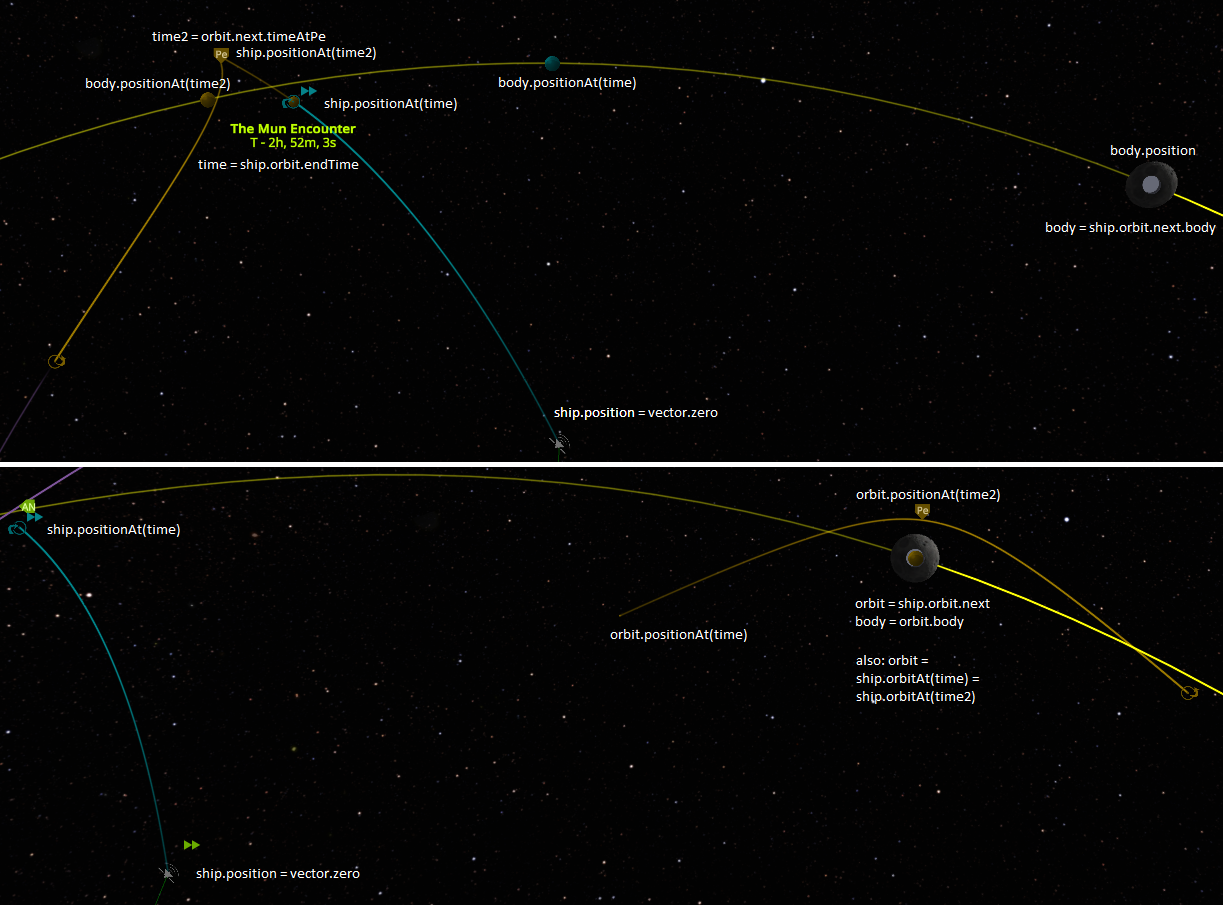
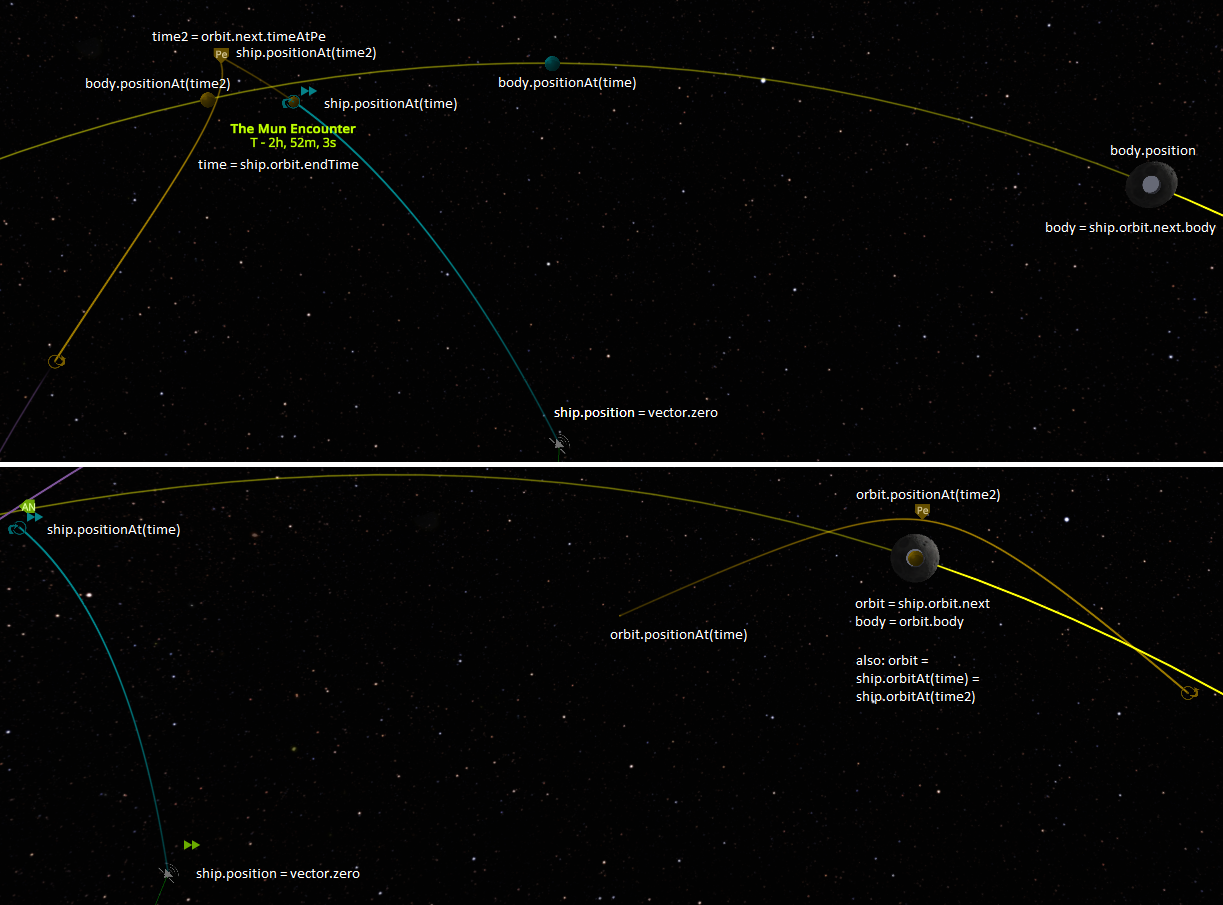
documentation for node, orbitAt, positionAt and velocityAt

diff --git a/RedOnion.KSP/API/Node.cs b/RedOnion.KSP/API/Node.cs
@@ -37,10 +37,10 @@ namespace RedOnion.KSP.API
 		[Description("Ship the node belongs to.")]
 		public Ship ship { get; private set; }
 
-		[Description("Create new maneuver node for active ship, specifying time.")]
+		[Description("Create new maneuver node for active ship, specifying time and optionally prograde, normal and radial delta-v (unspecified are zero).")]
 		public Node(double time, double prograde = 0.0, double normal = 0.0, double radial = 0.0)
 			: this(Ship.Active, time, prograde, normal, radial) { }
-		[Description("Create new maneuver node for active ship.")]
+		[Description("Create new maneuver node for active ship, specifying time and burn vector. See [`deltav` property](#deltav) for more details.")]
 		public Node(double time, Vector deltav)
 			: this(Ship.Active, time, deltav) { }
 
@@ -69,7 +69,16 @@ namespace RedOnion.KSP.API
 		[Description("Seconds until the maneuver.")]
 		public double eta => native.UT - Time.now;
 
-		[Description("Direction and amount of velocity change needed.")]
+		[Description("Direction and amount of velocity change needed (aka burn-vector)."
+			+ " Note that the vector is relative to the SOI where the node is (not where the ship currently is)."
+			+ " That means that the vector will be relative to the current position of the Mun"
+			+ " not relative to future position of the Mun (when the node is for example "
+			+ " at the periapsis = closest enounter with the Mun"
+			+ " and is retrograde with the right amount for circularization,"
+			+ " but the ship is currently still in Kerbin's SOI)."
+			+ " Therefore [`ship.orbitAt(time).velocityAt(time)`](Ship.md#orbitAt)"
+			+ " shall be used rather than [`ship.velocityAt(time)`](Ship.md#velocityAt)"
+			+ " when planning nodes in different SOI (both work the same when in same SOI).")]
 		public Vector deltav
 		{
 			get => new Vector(native.GetBurnVector(ship.orbit));

diff --git a/RedOnion.KSP/API/Ship.cs b/RedOnion.KSP/API/Ship.cs
@@ -547,7 +547,7 @@ namespace RedOnion.KSP.API
 
 		#region Tools
 
-		[WorkInProgress, Description("Get orbit info relevant for given time.")]
+		[WorkInProgress, Description("Get orbit info relevant for given time. See [orbit.png](orbit.png).")]
 		public OrbitInfo orbitAt(double time)
 		{
 			var orbit = this.orbit;
@@ -560,7 +560,11 @@ namespace RedOnion.KSP.API
 			}
 			return orbit;
 		}
-		[WorkInProgress, Description("Predicted position at specified time.")]
+		[WorkInProgress, Description(
+			"Predicted position at specified time."
+			+ " Includes the movement of moons (e.g. Mun) when ship is currently orbiting the planet (e.g. Kerbin)."
+			+ " Use `orbitAt(time).positionAt(time)` if that is not desired."
+			+ " See [orbit.png](orbit.png).")]
 		public Vector positionAt(double time)
 		{
 			var orbit = native.orbit.GetOrbitAt(time);
@@ -575,7 +579,11 @@ namespace RedOnion.KSP.API
 			}
 			return new Vector(pos - FlightGlobals.ActiveVessel.CoMD);
 		}
-		[WorkInProgress, Description("Predicted velocity at specified time.")]
+		[WorkInProgress, Description(
+			"Predicted velocity at specified time."
+			+ " Includes the movement of moons (e.g. Mun) when ship is currently orbiting the planet (e.g. Kerbin)."
+			+ " Use `orbitAt(time).velocityAt(time)` if that is not desired."
+			+ " See [orbit.png](orbit.png).")]
 		public Vector velocityAt(double time)
 		{
 			var orbit = native.orbit.GetOrbitAt(time);

diff --git a/RedOnion.KSP/API/VectorDraw.cs b/RedOnion.KSP/API/VectorDraw.cs
@@ -14,22 +14,21 @@ namespace RedOnion.KSP.API
 		{
 			[Description("Reference for coordinate system (origin at zero if null).")]
 			public ISpaceObject reference { get; set; }
+
 			[Description("Starting point of the vector (relative to reference).")]
 			public Vector origin { get; set; }
 			[Description("Direction of the vector (from starting point).")]
 			public Vector direction { get; set; }
 
 			[Description("Alias to `origin`.")]
-			public Vector from { get; set; }
-			[Description("End point (`origin + direction`).")]
-			public Vector to { get => origin + direction; set => direction = value - origin; }
-
-			[Description("Alias to `origin`.")]
-			public Vector start { get => origin; set => origin = value; }
-			[Description("Alias to `origin`.")]
 			public Vector position { get => origin; set => origin = value; }
 			[Description("Alias to `direction`.")]
 			public Vector vector { get => direction; set => direction = value; }
+
+			[Description("Alias to `origin`.")]
+			public Vector from { get; set; }
+			[Description("End point (`origin + direction`).")]
+			public Vector to { get => origin + direction; set => direction = value - origin; }
 
 			[Description("Color of the arrow.")]
 			public Color color { get; set; } = Color.white;

diff --git a/RedOnion.KSP/API/OrbitInfo.cs b/RedOnion.KSP/API/OrbitInfo.cs
@@ -111,7 +111,11 @@ namespace RedOnion.KSP.API
 		[Description("Argument of periapsis. Angle from ascending node to periapsis.")]
 		public double aop => native.argumentOfPeriapsis;
 
-		[WorkInProgress, Description("Predicted position at specified time.")]
+		[WorkInProgress, Description(
+			"Predicted position at specified time."
+			+ " Does not includes the movement of celestial bodies"
+			+ " (like Mun when ship is still in Kerbin's SOI)."
+			+ " See [orbit.png](orbit.png).")]
 		public Vector positionAt(double time) => new Vector(native.getPositionAtUT(time) - FlightGlobals.ActiveVessel.CoMD);
 		[WorkInProgress, Description("Predicted velocity at specified time.")]
 		public Vector velocityAt(double time) => new Vector(native.getOrbitalVelocityAtUT(time).xzy);

diff --git a/RedOnion.KSP/API/Ship.md b/RedOnion.KSP/API/Ship.md
@@ -32,6 +32,11 @@ Active vessel
 - `q`: double - Dynamic pressure [atm = 101.325kPa]
 - `body`: [SpaceBody](SpaceBody.md) - Orbited body.
 - `orbit`: [OrbitInfo](OrbitInfo.md) - \[`WIP`\] Orbit parameters.
+- `period`: double - Period of current orbit in seconds.
+- `timeToAp`: double - Eta to apoapsis in seconds.
+- `timeToPe`: double - Eta to periapsis in seconds.
+- `timeAtAp`: double - Time at apoapsis. `timeToAp + time.now`
+- `timeAtPe`: double - Time at periapsis. `timeAtPe + time.now`
 - `eccentricity`: double - Eccentricity of current orbit. \[0, +inf)
 - `inclination`: double - Inclination of current orbit. \[0, 180)
 - `semiMajorAxis`: double - Semi-major axis of current orbit.
@@ -40,13 +45,11 @@ Active vessel
 - `periapsis`: double - Height above ground of lowest point of current orbit.
 - `apocenter`: double - Highest distance between center of orbited body and any point of current orbit. `(1 + eccentricity) * semiMajorAxis`
 - `pericenter`: double - Lowest distance between center of orbited body and any point of current orbit. `(1 - eccentricity) * semiMajorAxis`
-- `timeToAp`: double - Eta to apoapsis in seconds.
-- `timeToPe`: double - Eta to periapsis in seconds.
-- `period`: double - Period of current orbit in seconds.
 - `trueAnomaly`: double - Angle in degrees between the direction of periapsis and the current position. Zero at periapsis, 180 at apoapsis.
 - `meanAnomaly`: double - Angle in degrees between the direction of periapsis and the current position extrapolated on circular orbit.
 - `lan`: double - Longitude of ascending node.
 - `argumentOfPeriapsis`: double - Argument of periapsis. Angle from ascending node to periapsis.
+- `aop`: double - Argument of periapsis. Angle from ascending node to periapsis.
 - `position`: [Vector](Vector.md) - Center of mass relative to (CoM of) active ship (zero for active ship).
 - `velocity`: [Vector](Vector.md) - Current orbital velocity.
 - `surfaceVelocity`: [Vector](Vector.md) - Current surface velocity.
@@ -77,11 +80,11 @@ Note that it can change violently when facing up or down.
 
 **Instance Methods:**
 - `orbitAt()`: [OrbitInfo](OrbitInfo.md), time double
-  - \[`WIP`\] Get orbit info relevant for given time.
+  - \[`WIP`\] Get orbit info relevant for given time. See [orbit.png](orbit.png).
 - `positionAt()`: [Vector](Vector.md), time double
-  - \[`WIP`\] Predicted position at specified time.
+  - \[`WIP`\] Predicted position at specified time. Includes the movement of moons (e.g. Mun) when ship is currently orbiting the planet (e.g. Kerbin). Use `orbitAt(time).positionAt(time)` if that is not desired. See [orbit.png](orbit.png).
 - `velocityAt()`: [Vector](Vector.md), time double
-  - \[`WIP`\] Predicted velocity at specified time.
+  - \[`WIP`\] Predicted velocity at specified time. Includes the movement of moons (e.g. Mun) when ship is currently orbiting the planet (e.g. Kerbin). Use `orbitAt(time).velocityAt(time)` if that is not desired. See [orbit.png](orbit.png).
 - `local()`: [Vector](Vector.md), v [Vector](Vector.md)
   - Translate vector/direction into ship-local coordinates (like looking at it from the cockpit - or rather from the controlling part).
 - `world()`: [Vector](Vector.md), v [Vector](Vector.md)

diff --git a/RedOnion.KSP/API/OrbitInfo.md b/RedOnion.KSP/API/OrbitInfo.md
@@ -9,8 +9,13 @@ Orbit/patch parameters.
 - `encounter`: bool - \[`WIP`\] This orbit-patch ends by encounter with another celestial body.
 - `escape`: bool - \[`WIP`\] This orbit-patch ends by escaping the SOI.
 - `next`: OrbitInfo - Next patch if there is some transition (null otherwise).
-- `startTime`: double - Time of start of this patch, if it is continuation. Usually in the past for current orbit without a transition.
+- `startTime`: double - Time of start of this patch, if it is continuation. Usually a bit in the past for current orbit without a transition.
 - `endTime`: double - Time of end of this patch, if there is transition. `period = endTime - startTime` for current orbit without a transition.
+- `period`: double - Period of the orbit in seconds.
+- `timeToAp`: double - Eta to apoapsis in seconds.
+- `timeToPe`: double - Eta to periapsis in seconds.
+- `timeAtAp`: double - Time at apoapsis. `timeToAp + time.now`
+- `timeAtPe`: double - Time at periapsis. `timeAtPe + time.now`
 - `eccentricity`: double - Eccentricity of current orbit. \[0, +inf)
 - `inclination`: double - Inclination of current orbit. \[0, 180)
 - `semiMajorAxis`: double - Semi-major axis of current orbit.
@@ -19,16 +24,14 @@ Orbit/patch parameters.
 - `periapsis`: double - Height above ground of lowest point of current orbit. `pericenter - body.radius`
 - `apocenter`: double - Highest distance between center of orbited body and any point of current orbit. `(1 + eccentricity) * semiMajorAxis`
 - `pericenter`: double - Lowest distance between center of orbited body and any point of current orbit. `(1 - eccentricity) * semiMajorAxis`
-- `timeToAp`: double - Eta to apoapsis in seconds.
-- `timeToPe`: double - Eta to periapsis in seconds.
-- `period`: double - Period of the orbit in seconds.
 - `trueAnomaly`: double - Angle in degrees between the direction of periapsis and the current position. Zero at periapsis, 180 at apoapsis.
 - `meanAnomaly`: double - Angle in degrees between the direction of periapsis and the current position extrapolated on circular orbit.
 - `lan`: double - Longitude of ascending node.
 - `argumentOfPeriapsis`: double - Argument of periapsis. Angle from ascending node to periapsis.
+- `aop`: double - Argument of periapsis. Angle from ascending node to periapsis.
 
 **Instance Methods:**
 - `positionAt()`: [Vector](Vector.md), time double
-  - \[`WIP`\] Predicted position at specified time.
+  - \[`WIP`\] Predicted position at specified time. Does not includes the movement of celestial bodies (like Mun when ship is still in Kerbin's SOI). See [orbit.png](orbit.png).
 - `velocityAt()`: [Vector](Vector.md), time double
   - \[`WIP`\] Predicted velocity at specified time.

diff --git a/RedOnion.KSP/API/Node.md b/RedOnion.KSP/API/Node.md
@@ -5,16 +5,16 @@ Maneuver node.
 
 **Constructors:**
 - `Node()`: time double, prograde double, normal double, radial double
-  - Create new maneuver node for active ship, specifying time.
+  - Create new maneuver node for active ship, specifying time and optionally prograde, normal and radial delta-v (unspecified are zero).
 - `Node()`: time double, deltav [Vector](Vector.md)
-  - Create new maneuver node for active ship.
+  - Create new maneuver node for active ship, specifying time and burn vector. See [`deltav` property](#deltav) for more details.
 
 **Instance Properties:**
 - `native`: ManeuverNode - \[`Unsafe`\] KSP API.
 - `ship`: [Ship](Ship.md) - Ship the node belongs to.
 - `time`: double - Planned time for the maneuver.
 - `eta`: double - Seconds until the maneuver.
-- `deltav`: [Vector](Vector.md) - Direction and amount of velocity change needed.
+- `deltav`: [Vector](Vector.md) - Direction and amount of velocity change needed (aka burn-vector). Note that the vector is relative to the SOI where the node is (not where the ship currently is). That means that the vector will be relative to the current position of the Mun not relative to future position of the Mun (when the node is for example  at the periapsis = closest enounter with the Mun and is retrograde with the right amount for circularization, but the ship is currently still in Kerbin's SOI). Therefore [`ship.orbitAt(time).velocityAt(time)`](Ship.md#orbitAt) shall be used rather than [`ship.velocityAt(time)`](Ship.md#velocityAt) when planning nodes in different SOI (both work the same when in same SOI).
 - `nativeDeltaV`: Vector3d - \[`Unsafe`\] KSP API. Setting it also calls `patchedConicSolver.UpdateFlightPlan()`.
 - `prograde`: double - Amount of velocity change in prograde direction.
 - `normal`: double - Amount of velocity change in normal direction.

diff --git a/RedOnion.KSP/API/VectorCreator.Draw.md b/RedOnion.KSP/API/VectorCreator.Draw.md
@@ -7,10 +7,10 @@ Vector drawing. WIP: The origin is glitching a bit shortly after launch and duri
 - `reference`: [ISpaceObject](ISpaceObject.md) - Reference for coordinate system (origin at zero if null).
 - `origin`: [Vector](Vector.md) - Starting point of the vector (relative to reference).
 - `direction`: [Vector](Vector.md) - Direction of the vector (from starting point).
-- `from`: [Vector](Vector.md) - Alias to `origin`.
-- `to`: [Vector](Vector.md) - End point (relative to reference, not starting point).
-- `start`: [Vector](Vector.md) - Alias to `origin`.
+- `position`: [Vector](Vector.md) - Alias to `origin`.
 - `vector`: [Vector](Vector.md) - Alias to `direction`.
+- `from`: [Vector](Vector.md) - Alias to `origin`.
+- `to`: [Vector](Vector.md) - End point (`origin + direction`).
 - `color`: Color - Color of the arrow.
 - `width`: double - Width / thickness of the arrow.
 - `scale`: double - Scale of the vector.
